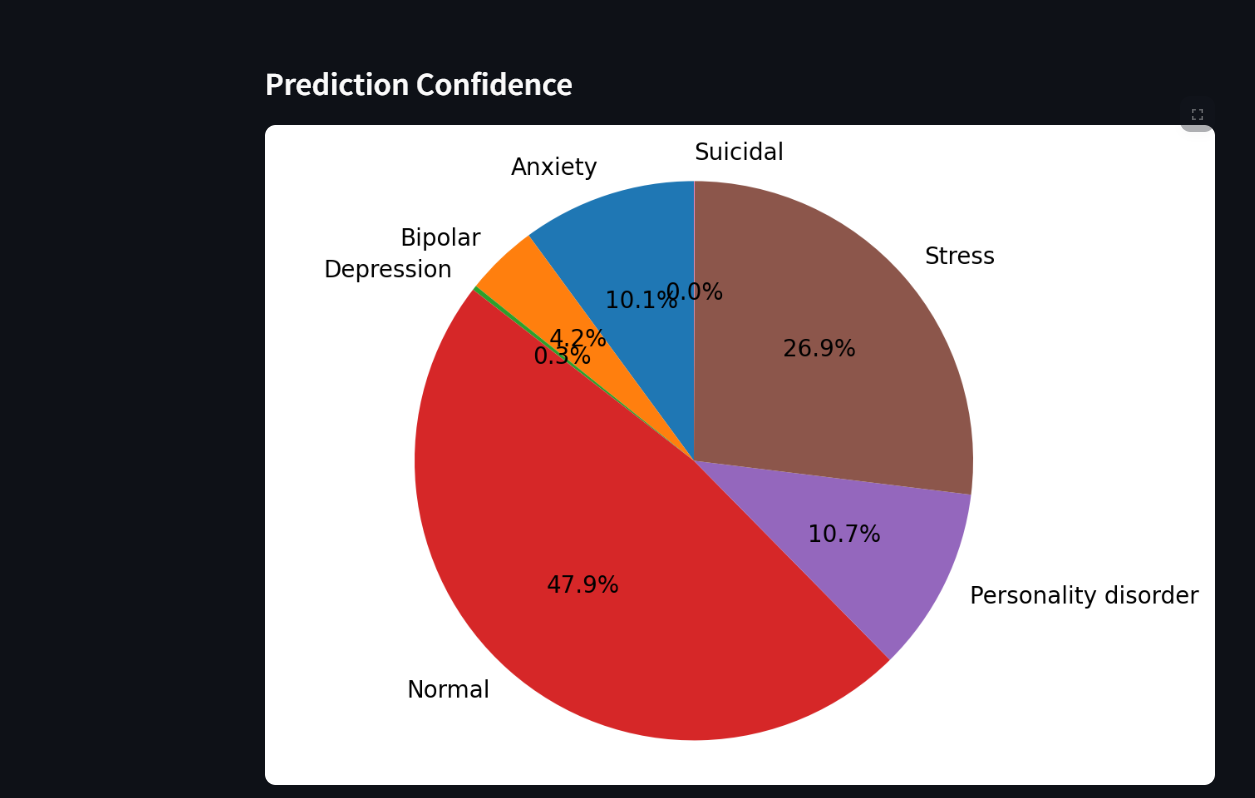
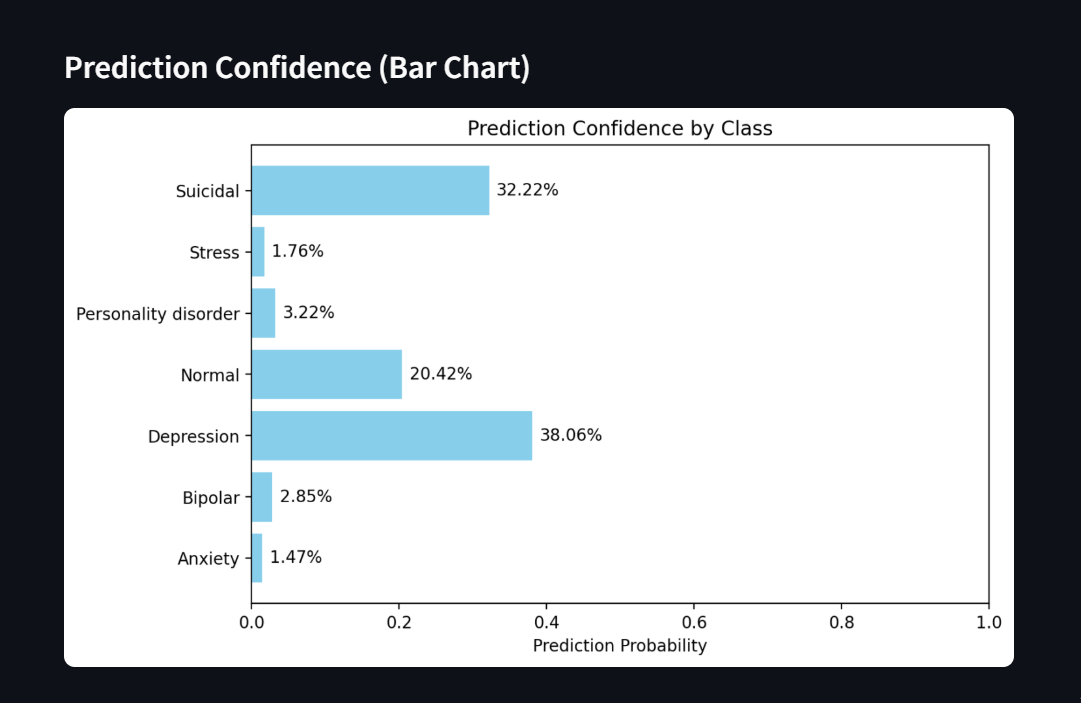
chart changed

diff --git a/app.py b/app.py
@@ -38,9 +38,18 @@ if st.button("Analyze"):
         labels = model.classes_
 
         df_probs = pd.DataFrame({'label': labels, 'probability': probs})
-        fig, ax = plt.subplots()
-        ax.pie(df_probs['probability'], labels=df_probs['label'], autopct='%1.1f%%', startangle=90)
-        ax.axis('equal')  # Equal aspect ratio for circle
+        fig, ax = plt.subplots(figsize=(8, 5))
+        bars = ax.barh(df_probs['label'], df_probs['probability'], color='skyblue')
+        ax.set_xlabel("Prediction Probability")
+        ax.set_xlim(0, 1)
+        ax.set_title("Prediction Confidence by Class")
 
-        st.markdown("#### Prediction Confidence")
+        # Add % labels next to bars
+        for bar in bars:
+            width = bar.get_width()
+            ax.text(width + 0.01, bar.get_y() + bar.get_height()/2,
+                    f"{width:.2%}", va='center')
+
+        st.markdown("#### Prediction Confidence (Bar Chart)")
         st.pyplot(fig)
+
